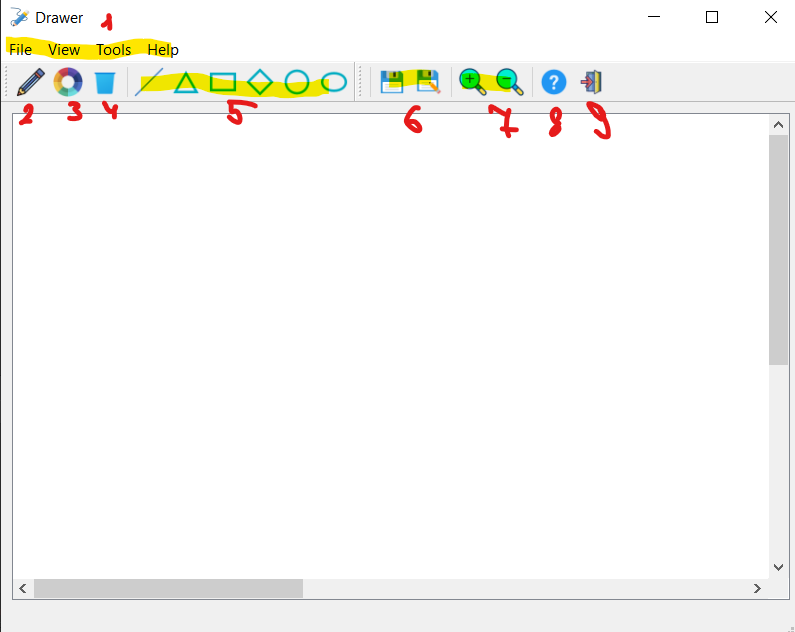
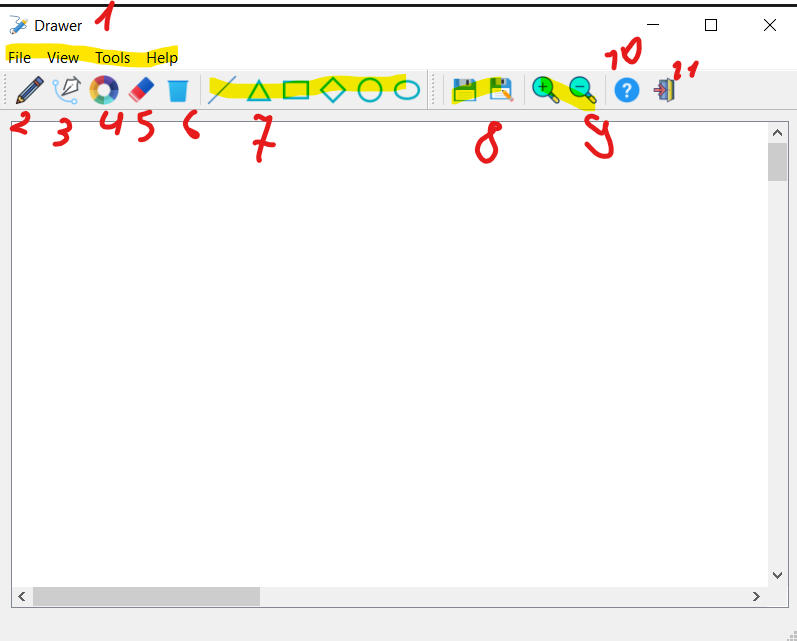
Final commit

diff --git a/02ZymovetsQt/Instruction/help.html b/02ZymovetsQt/Instruction/help.html
@@ -12,7 +12,9 @@
         <ol>
             <li>Menu bar</li>
             <li>Drawing tool</li>
+            <li>Pen size chooser</li>
             <li>Colour chooser</li>
+            <li>Eraser</li>
             <li>Clearing tool</li>
             <li>Shape drawing tools</li>
             <li>Save tools</li>
@@ -40,10 +42,24 @@
                 <img src="image3.png"/>
             </p>
 
+            <li><h3>Pen size chooser</h3></li>
+            <p>Click the "Pen size chooser" button and choose the pen size.</p>
+            <p>Enter needed size in the popped up dialog window</p>
+            <p>Press "Ok" button</p>
+            <p>
+                <img src="image7.png"/>
+            </p>
+
             <li><h3>Colour chooser can be used to change colour of the drawing pen.</h3></li>
             <p>Click the "Colour chooser" button and choose the colour.</p>
             <p>
                 <img src="image4.png"/>
+            </p>
+
+            <li><h3>Eraser tool</h3></li>
+            <p>Click the "Eraser tool" button to erase the drawn staff from your canvas.</p>
+            <p>
+                <img src="image8.png"/>
             </p>
 
 
@@ -77,6 +93,16 @@
 
             <li><h3>Exit</h3></li>
             <p>Press "Exit" button to shut the program down</p>
+
+            <li><h3>Drag & drop mechanism</h3></li>
+            <p>Drag the external image to your drawing canvas</p>
+            <p>
+                <img src="image9.png"/>
+            </p>
+            <p>Then drop the image and it be ready for editing.</p>
+            <p>
+                <img src="image10.png"/>
+            </p>
         </ol> 
     </body>
 </html>

diff --git a/02ZymovetsQt/mainwindow.cpp b/02ZymovetsQt/mainwindow.cpp
@@ -1,5 +1,6 @@
 #include "mainwindow.h"
 #include "ui_mainwindow.h"
+#include "InstructionShower.h"
 #include <QLayout>
 #include <QFileDialog>
 #include <QStandardPaths>
@@ -9,7 +10,6 @@
 #include <QMimeData>
 #include <QScrollArea>
 #include <QInputDialog>
-#include "InstructionShower.h"
 
 using Tool = Graphics::Tool;
 
@@ -17,6 +17,8 @@ const qreal MainWindow::ZOOM_SCALE_FACTOR = 2.0;
 const qint32 MainWindow::MAX_GRAPHICS_LOGSCALE = 3;
 const qint32 MainWindow::MIN_GRAPHICS_LOGSCALE = -3;
 const QString MainWindow::FILE_FILTERS = "PNG File (*.png);; JPG File (*.jpg)";
+const QString MainWindow::INSTRUCTION_FOLDER = "../02ZymovetsQt/Instruction";
+const QString MainWindow::INSTRUCTION_FILENAME = "help.html";
 
 MainWindow::MainWindow(QWidget *parent)
     : QMainWindow(parent),
@@ -26,7 +28,7 @@ MainWindow::MainWindow(QWidget *parent)
       _graphicsLogScale(0),
       _hasBeenSaved(false),
       _savedPath(nullptr),
-      shower(new InstructionShower("../02ZymovetsQt/Instruction", "help.html"))
+      shower(new InstructionShower(INSTRUCTION_FOLDER, INSTRUCTION_FILENAME))
 {
     ui->setupUi(this);
 
@@ -82,6 +84,7 @@ void MainWindow::connect_all_actions_to_slots()
     connect_action_to_tool(ui->actionRectangle, Tool::RECTANGLE);
     connect_action_to_tool(ui->actionRhombus, Tool::RHOMBUS);
     connect_action_to_tool(ui->actionTriangle, Tool::TRIANGLE);
+    connect_action_to_tool(ui->actionEraser, Tool::ERASER);
 
     connect(ui->actionExit, &QAction::triggered, this, &MainWindow::close);
 
@@ -161,7 +164,7 @@ void MainWindow::load_graphics()
 void MainWindow::show_instruction()
 {
     delete shower;
-    shower = new InstructionShower("../02ZymovetsQt/Instruction", "help.html");
+    shower = new InstructionShower(INSTRUCTION_FOLDER, INSTRUCTION_FILENAME);
     shower->show();
 }
 

diff --git a/02ZymovetsQt/graphics.cpp b/02ZymovetsQt/graphics.cpp
@@ -91,6 +91,7 @@ void Graphics::do_drawings()
 
     _painter.begin(&_canvas);
     _painter.setPen(QPen(_currentPenColor, _penSize));
+
     switch(_selectedTool)
     {
     case Tool::NONE:
@@ -110,6 +111,12 @@ void Graphics::do_drawings()
     case Tool::CIRCLE:
         break;
     case Tool::ELLIPSE:
+        break;
+    case Graphics::Tool::ERASER:
+        _painter.setPen(QPen(Qt::white, _penSize));
+        if(_mouseStepVector)
+            _painter.drawEllipse(QPointF(_mouseStepVector->p2()), 2*_penSize, 2*_penSize);
+        _painter.setPen(QPen(_currentPenColor, _penSize));
         break;
     }
 
@@ -173,6 +180,8 @@ void Graphics::do_phantom_drawings()
     case Tool::ELLIPSE:
         _painter.drawEllipse(rect);
         break;
+    case Graphics::Tool::ERASER:
+        break;
     }
     delete[] rectSideCentres; rectSideCentres = nullptr;
     _painter.end();
@@ -187,7 +196,8 @@ void Graphics::depict_canvas(const QImage& canvas)
 
 bool Graphics::is_phantom_tool_equiped()
 {
-    return _selectedTool != Tool::NONE && _selectedTool != Tool::PENCIL;
+    return _selectedTool != Tool::NONE && _selectedTool != Tool::PENCIL &&
+            _selectedTool != Tool::ERASER;
 }
 
 void Graphics::set_phantom_mode(bool phantomMode)

diff --git a/02ZymovetsQt/mainwindow.h b/02ZymovetsQt/mainwindow.h
@@ -1,12 +1,12 @@
 #ifndef MAINWINDOW_H
 #define MAINWINDOW_H
 
-#include <QMainWindow>
-#include <QAction>
 #include "graphics.h"
 #include "InstructionShower.h"
-
+#include <QMainWindow>
+#include <QAction>
 #include<QPainter>
+
 
 QT_BEGIN_NAMESPACE
 namespace Ui { class MainWindow; }
@@ -45,5 +45,7 @@ private:
     static const qint32 MAX_GRAPHICS_LOGSCALE;
     static const qint32 MIN_GRAPHICS_LOGSCALE;
     static const QString FILE_FILTERS;
+    static const QString INSTRUCTION_FOLDER;
+    static const QString INSTRUCTION_FILENAME;
 };
 #endif // MAINWINDOW_H

diff --git a/02ZymovetsQt/InstructionShower.cpp b/02ZymovetsQt/InstructionShower.cpp
@@ -1,6 +1,7 @@
 #include "InstructionShower.h"
 #include <QTextBrowser>
 #include <QVBoxLayout>
+#include <QIcon>
 
 InstructionShower::InstructionShower
 (
@@ -11,6 +12,7 @@ InstructionShower::InstructionShower
     : QWidget(parent),
       _textBrowser(new QTextBrowser)
 {
+    setWindowIcon(QIcon(":/resourses/icons/icons8-помощь-32.png"));
     setWindowTitle("Instruction");
     resize(500, 500);
     _textBrowser->setSearchPaths(QStringList() << path);

diff --git a/02ZymovetsQt/graphics.h b/02ZymovetsQt/graphics.h
@@ -21,6 +21,7 @@ public:
         RHOMBUS,
         CIRCLE,
         ELLIPSE,
+        ERASER,
     };
 
 public:
